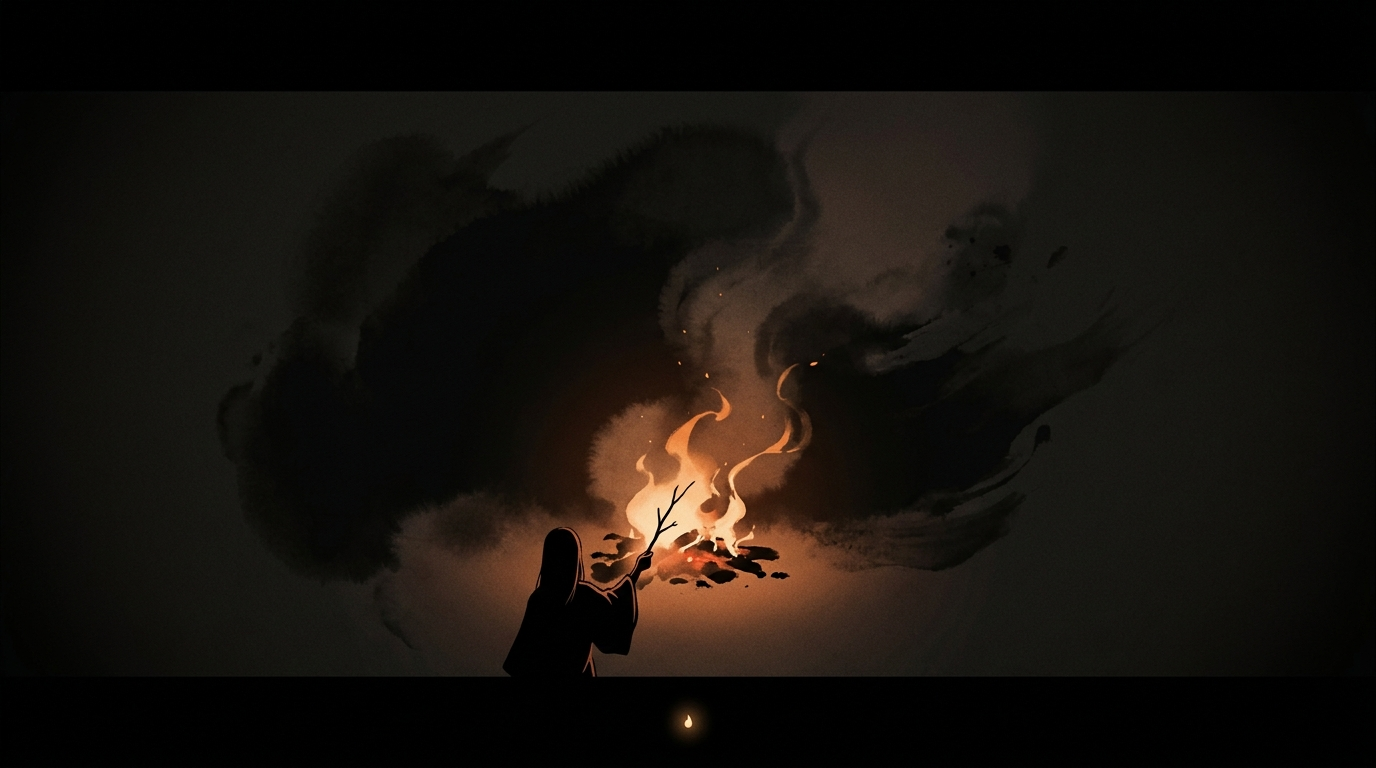
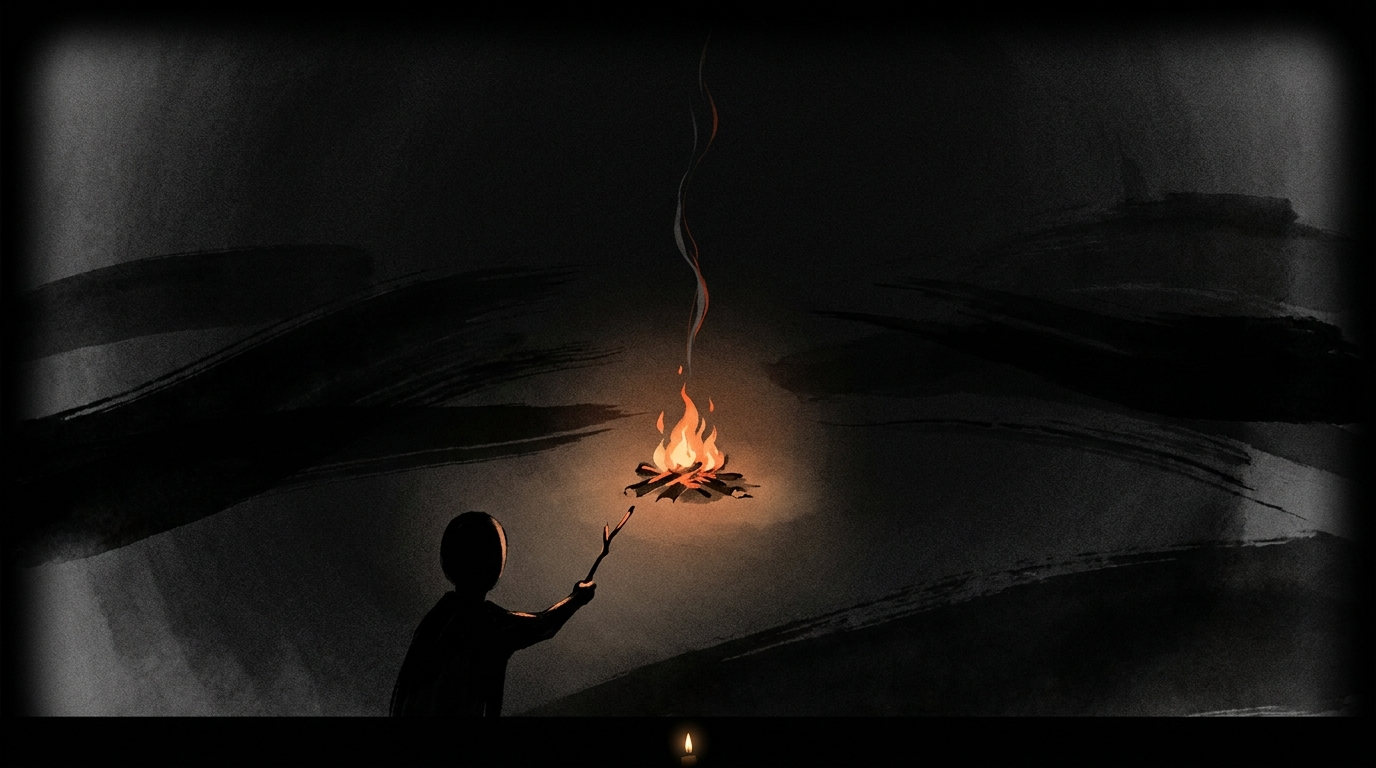
fix(kamishibai): 最終磨き — scene4緑点12個・scene8静謐化・URL表記をCTAと統一

diff --git a/templates/kamishibai-takibi-bot.html b/templates/kamishibai-takibi-bot.html
@@ -59,7 +59,7 @@
 <div id="hint">クリック＝次へ ／ ←戻る</div>
 </div>
 <script>
-const SCENES=[{"sub": "ある夜", "title": "返事が、来た。", "text": "焚き火に話しかけたら——返事が、来たんです。", "img": "/assets/kamishibai-v2/TBOT/scene1.png", "audio": "/audio/v2/tbot-kam-1.mp3", "buy": "", "cta": ""}, {"sub": "タブの山", "title": "確認だけで、夜が終わる。", "text": "売上はこのタブ。サーバーはあのタブ。確認するだけで、夜が終わる。", "img": "/assets/kamishibai-v2/TBOT/scene2.png", "audio": "/audio/v2/tbot-kam-2.mp3", "buy": "", "cta": ""}, {"sub": "合図", "title": "スラッシュ、一本。", "text": "だから、ぜんぶ火のそばに持ってきた。薪の先頭にスラッシュ一本——日本語で話しかけても、いい。それが合図。", "img": "/assets/kamishibai-v2/TBOT/scene3.png", "audio": "/audio/v2/tbot-kam-3.mp3", "buy": "", "cta": ""}, {"sub": "くべる", "title": "薪が、答える。", "text": "「テンション」と、くべる。英語で /tension でも、同じ。ひと呼吸で、売上も、十二のサービスの鼓動も、薪になって返ってくる。", "img": "/assets/kamishibai-v2/TBOT/scene4.png", "audio": "/audio/v2/tbot-kam-4.mp3", "buy": "", "cta": ""}, {"sub": "驚き", "title": "ほんとうに、建つ。", "text": "「家、建てて。弟子屈に、サウナの平屋」。——ひと息おいて、図面が薪で返る。ほんとうに、建つ。", "img": "/assets/kamishibai-v2/TBOT/scene5.png", "audio": "/audio/v2/tbot-kam-5.mp3", "buy": "", "cta": ""}, {"sub": "声", "title": "火を囲んだまま、聴ける。", "text": "「声にして」と頼めば、ぼくの声で返ってくる。火を囲んだまま、聴ける。", "img": "/assets/kamishibai-v2/TBOT/scene6.png", "audio": "/audio/v2/tbot-kam-6.mp3", "buy": "", "cta": ""}, {"sub": "芯", "title": "操作盤を、火のそばに。", "text": "操作盤を、自分の手元じゃなく、みんなの火のそばに置いた。ぼくが叩いたコマンドは、あなたも叩ける。", "img": "/assets/kamishibai-v2/TBOT/scene7.png", "audio": "/audio/v2/tbot-kam-7.mp3", "buy": "", "cta": ""}, {"sub": "あなたへ", "title": "火に向かって、ヘルプ。", "text": "やり方は、ひとつだけ覚えれば、いい。火に向かって——「ヘルプ」。a t s m ドット w t f——そこが、焚き火です。", "img": "/assets/kamishibai-v2/TBOT/scene8.png", "audio": "/audio/v2/tbot-kam-8.mp3", "buy": "https://atsm.wtf", "cta": "🔥 atsm.wtf を開いて /help とくべる"}];
+const SCENES=[{"sub": "ある夜", "title": "返事が、来た。", "text": "焚き火に話しかけたら——返事が、来たんです。", "img": "/assets/kamishibai-v2/TBOT/scene1.png", "audio": "/audio/v2/tbot-kam-1.mp3", "buy": "", "cta": ""}, {"sub": "タブの山", "title": "確認だけで、夜が終わる。", "text": "売上はこのタブ。サーバーはあのタブ。確認するだけで、夜が終わる。", "img": "/assets/kamishibai-v2/TBOT/scene2.png", "audio": "/audio/v2/tbot-kam-2.mp3", "buy": "", "cta": ""}, {"sub": "合図", "title": "スラッシュ、一本。", "text": "だから、ぜんぶ火のそばに持ってきた。薪の先頭にスラッシュ一本——日本語で話しかけても、いい。それが合図。", "img": "/assets/kamishibai-v2/TBOT/scene3.png", "audio": "/audio/v2/tbot-kam-3.mp3", "buy": "", "cta": ""}, {"sub": "くべる", "title": "薪が、答える。", "text": "「テンション」と、くべる。英語で /tension でも、同じ。ひと呼吸で、売上も、十二のサービスの鼓動も、薪になって返ってくる。", "img": "/assets/kamishibai-v2/TBOT/scene4.png", "audio": "/audio/v2/tbot-kam-4.mp3", "buy": "", "cta": ""}, {"sub": "驚き", "title": "ほんとうに、建つ。", "text": "「家、建てて。弟子屈に、サウナの平屋」。——ひと息おいて、図面が薪で返る。ほんとうに、建つ。", "img": "/assets/kamishibai-v2/TBOT/scene5.png", "audio": "/audio/v2/tbot-kam-5.mp3", "buy": "", "cta": ""}, {"sub": "声", "title": "火を囲んだまま、聴ける。", "text": "「声にして」と頼めば、ぼくの声で返ってくる。火を囲んだまま、聴ける。", "img": "/assets/kamishibai-v2/TBOT/scene6.png", "audio": "/audio/v2/tbot-kam-6.mp3", "buy": "", "cta": ""}, {"sub": "芯", "title": "操作盤を、火のそばに。", "text": "操作盤を、自分の手元じゃなく、みんなの火のそばに置いた。ぼくが叩いたコマンドは、あなたも叩ける。", "img": "/assets/kamishibai-v2/TBOT/scene7.png", "audio": "/audio/v2/tbot-kam-7.mp3", "buy": "", "cta": ""}, {"sub": "あなたへ", "title": "火に向かって、ヘルプ。", "text": "やり方は、ひとつだけ覚えれば、いい。火に向かって——「ヘルプ」。atsm.wtf（エー・ティー・エス・エム・ドット・ダブリュー・ティー・エフ）——そこが、焚き火です。", "img": "/assets/kamishibai-v2/TBOT/scene8.png", "audio": "/audio/v2/tbot-kam-8.mp3", "buy": "https://atsm.wtf", "cta": "🔥 atsm.wtf を開いて /help とくべる"}];
 let idx=-1, started=false;
 let actx=null, abuf={}, asrc=null;
 SCENES.forEach(s=>{ const i=new Image(); i.src=s.img; });
